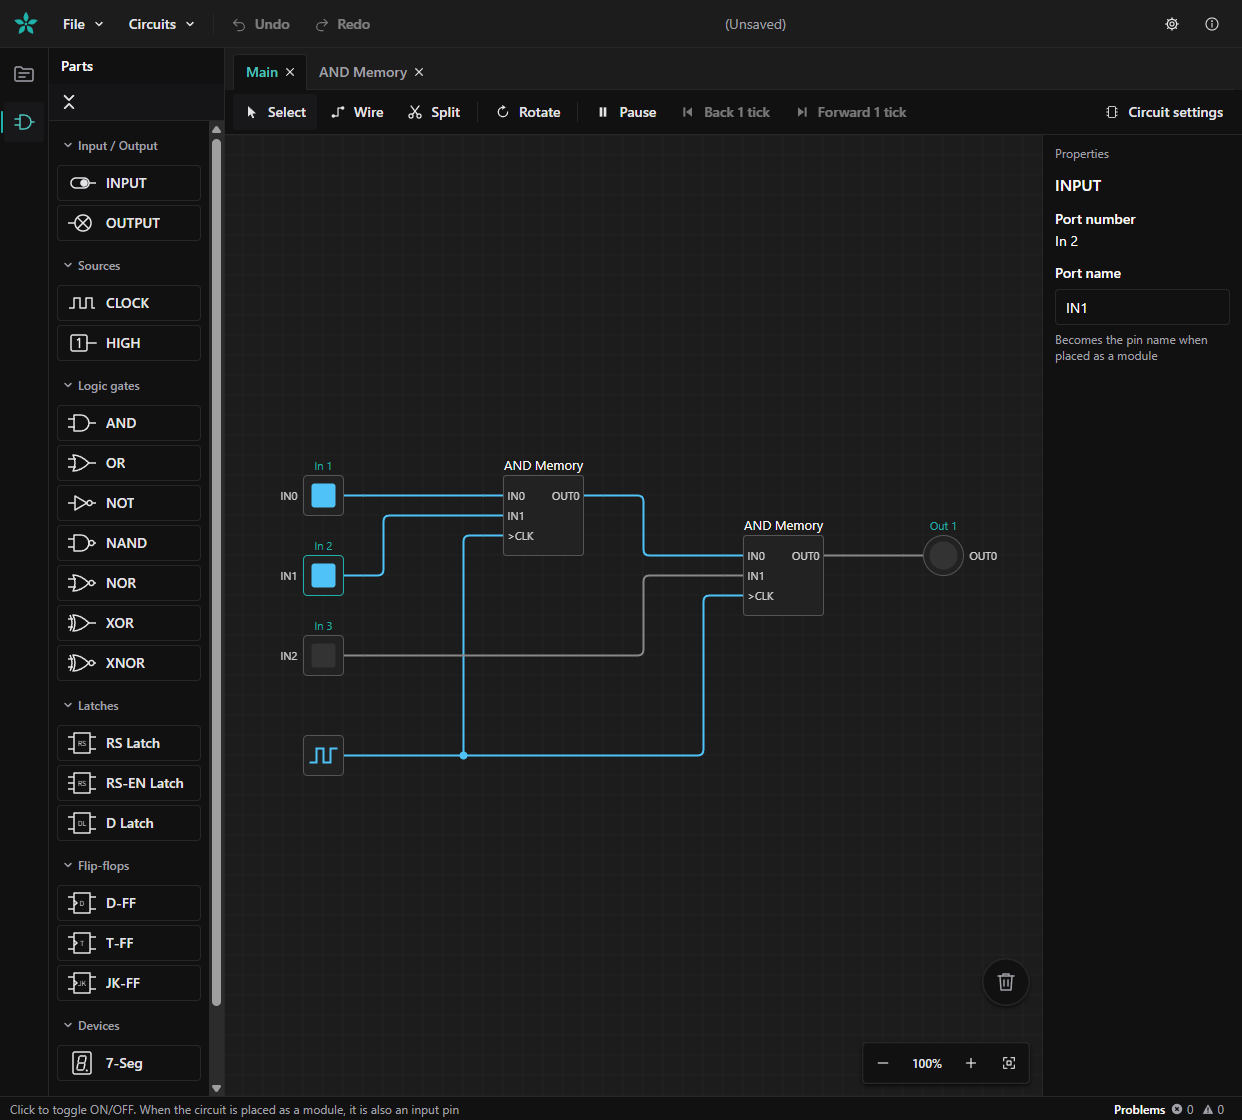
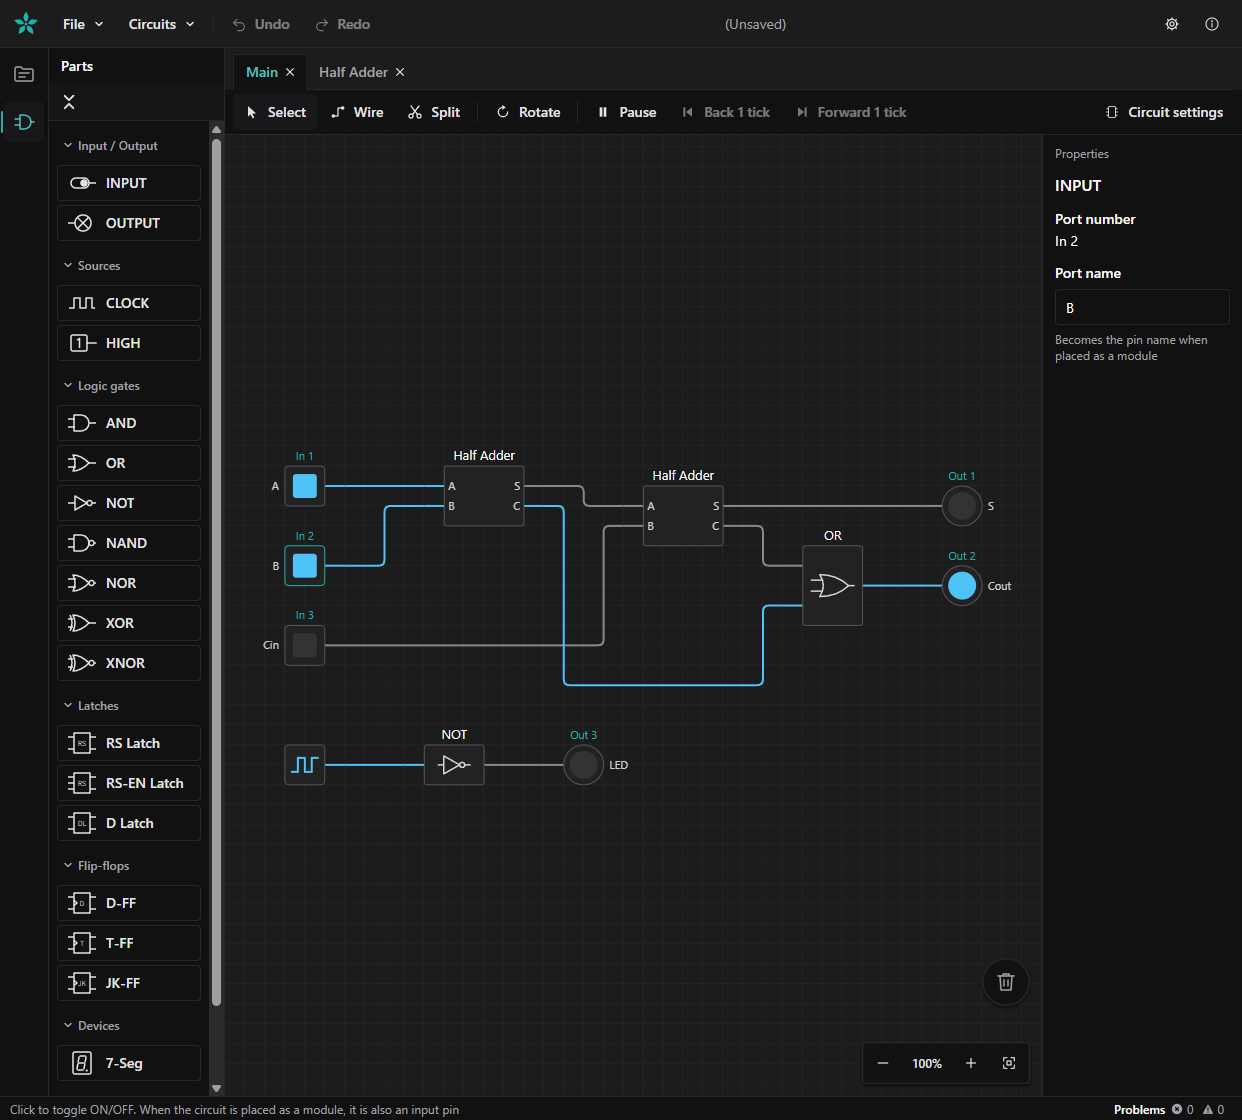
計画 28: 記号の色を gray.300 にし、README のスクリーンショットを全加算器の回路で撮り直す

diff --git a/src/parts/GateSymbol.tsx b/src/parts/GateSymbol.tsx
@@ -61,7 +61,8 @@ export function GateSymbol({ symbol, w, h }: { symbol: GateSymbolSpec; w: number
   return (
     <g
       fill="none"
-      stroke="var(--chakra-colors-fg)"
+      // 名前の文字 (fg) より少し暗くして、記号を控えめにする (開発者が選んだ)
+      stroke="var(--chakra-colors-gray-300)"
       strokeWidth={1.5}
       strokeLinejoin="round"
       pointerEvents="none"

diff --git a/agent/docs/parts.md b/agent/docs/parts.md
@@ -74,7 +74,7 @@
 ## 本体の描き込み
 
 - 前からある部品（INPUT のスイッチ、OUTPUT のランプ、CLOCK の矩形波、HIGH の記号、記憶素子などの名前）の描き込みは、`sheet/SheetPart.tsx` が種類ごとに描く。
-- ゲート（NOT、AND、OR、XOR、NAND、NOR、XNOR）は、本体の中に短いリードの付いた記号（MIL 記号）を描く（`parts/GateSymbol.tsx`）。どの記号を描くかは、種類の見せ方の `symbol`（`view.ts`。形 `gate` と、否定の丸を付けるか `negated`）で決める。リードはピンにはつながず、本体の真ん中に余白を取って描く。名前は本体の上に書く（配置の `nameAbove`）。
+- ゲート（NOT、AND、OR、XOR、NAND、NOR、XNOR）は、本体の中に短いリードの付いた記号（MIL 記号）を描く（`parts/GateSymbol.tsx`）。どの記号を描くかは、種類の見せ方の `symbol`（`view.ts`。形 `gate` と、否定の丸を付けるか `negated`）で決める。リードはピンにはつながず、本体の真ん中に余白を取って描く。線の色は、名前の文字（`fg`）より少し暗い `gray.300`（開発者が選んだ）。名前は本体の上に書く（配置の `nameAbove`）。
   - 形と寸法は、開発者がモックで見て決めた（[計画 28](../plans/gate-symbols/plan.md)の「記号の描き方」）。2 入力のゲートは本体の大きさから記号の大きさを決め、NOT は正三角形に近い決まった大きさにする。XOR と XNOR は、左の弧の分だけ入力のリードを短くし、本体を長くする。
   - ゲートの種類を足すなら、`symbol` を書き、記号の形が今の 4 つ（三角、AND、OR、XOR）にないなら `GateSymbol.tsx` に足す。
 - デバイスのように描くものが大きく種類ごとに違う部品は、描き込みを種類のフォルダの `Body.tsx` に置き、`parts/bodies.tsx` の `PART_BODIES` に並べる。`SheetPart.tsx` は、一覧にある種類なら、本体の左上を原点にしてそれを描き、名前は書かない（本体を描き込みが使い切り、見た目で何の部品か分かるため）。
